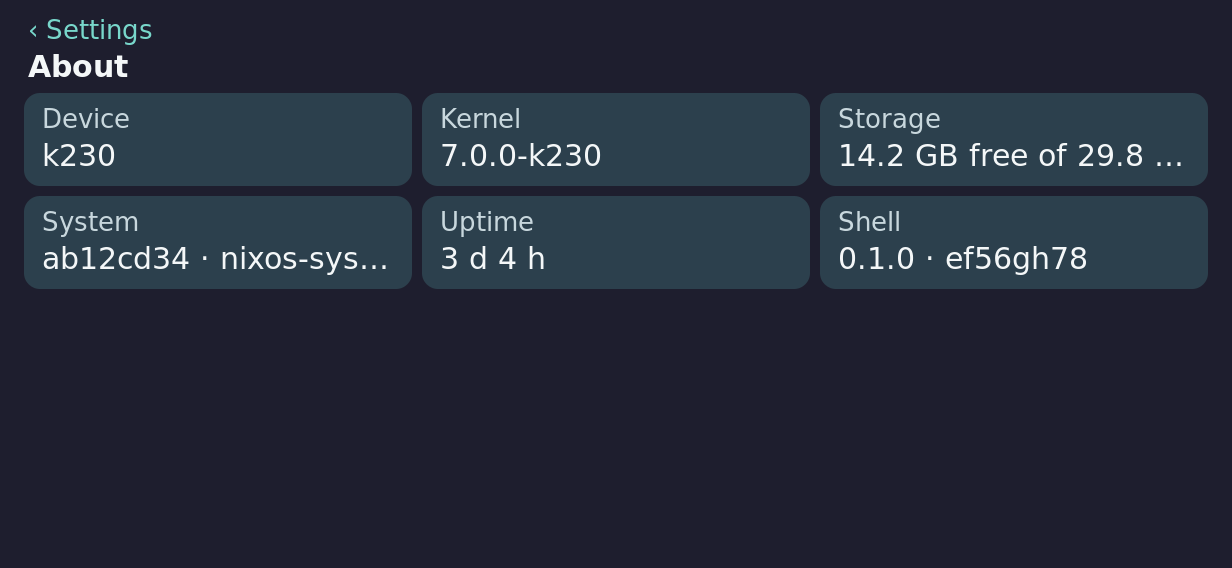
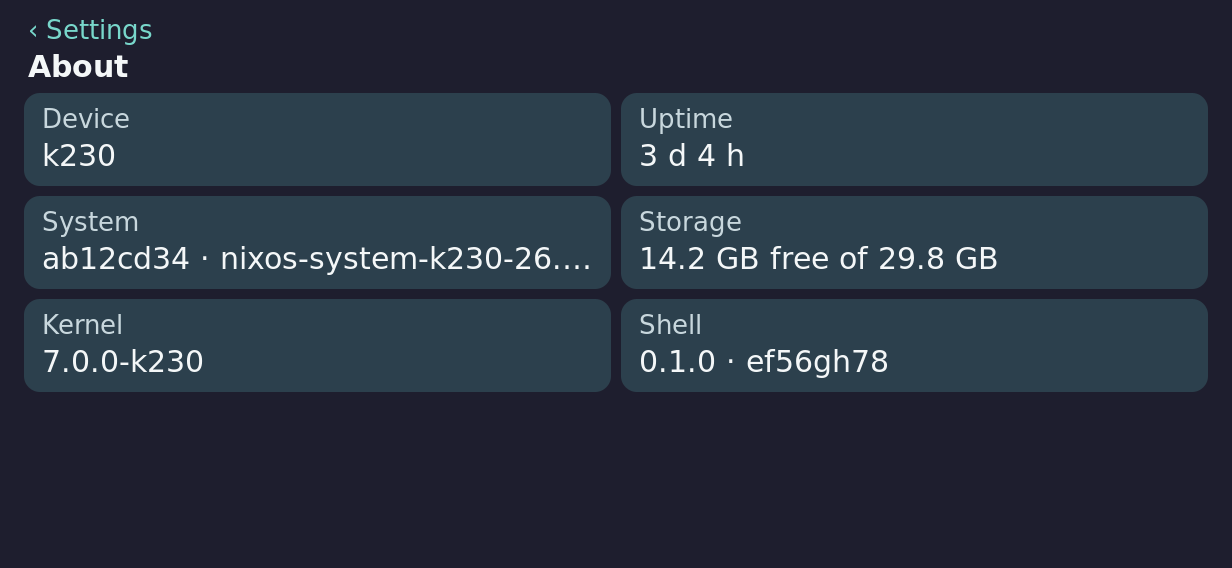
Give the landscape About and Date & time pages two columns
Three columns cut "14.2 GB free of 29.8 GB" and the time zone short at
100%; two fit them, and three remain the fallback when two would overflow
the panel at a large text step. Host renders regenerated.

Changed region(s): [[0.0, 0.1496, 0.987, 0.6884]]

diff --git a/nix/rust-shell-client/src/device_info.rs b/nix/rust-shell-client/src/device_info.rs
@@ -304,13 +304,17 @@ pub fn layout_scale(width: u32, height: u32) -> (f64, f64) {
 
 pub fn layout_for(width: u32, height: u32, rows: usize) -> Layout {
     if crate::modem_ui::wide(width, height) {
-        build(f64::from(width), true, rows)
+        // Two columns give values like "14.2 GB free of 29.8 GB" and a long
+        // time zone room to read whole; three only when two would overflow
+        // the panel at a large text step.
+        let two = build(f64::from(width), true, rows, 2);
+        if two.bottom <= f64::from(height) - 12.0 { two } else { build(f64::from(width), true, rows, 3) }
     } else {
-        build(568.0, false, rows)
+        build(568.0, false, rows, 1)
     }
 }
 
-fn build(w: f64, wide: bool, rows: usize) -> Layout {
+fn build(w: f64, wide: bool, rows: usize, columns: usize) -> Layout {
     let s = crate::layout_text_scale().max(1.0) * crate::layout_theme_font();
     let (label, caption, body) = (
         crate::render::TYPE_LABEL * s,
@@ -328,7 +332,6 @@ fn build(w: f64, wide: bool, rows: usize) -> Layout {
     let content = title_y + title_h + if compact { 6.0 } else { 14.0 };
     let (pad, gap) = (10.0, 10.0);
     let card_h = 2.0 * pad + line(caption) + 2.0 + line(body);
-    let columns = if wide { 3 } else { 1 };
     let per_column = rows.div_ceil(columns).max(1);
     let col_w = (w - 48.0 - gap * (columns as f64 - 1.0)) / columns as f64;
     let cards: Vec<Rect> = (0..rows)
